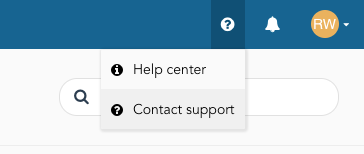
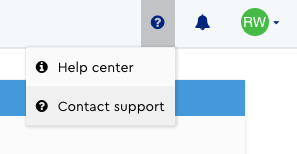
Redo screenshots for Cox.

diff --git a/en/administration/rbac.md b/en/administration/rbac.md
@@ -93,7 +93,7 @@ Environment roles are assigned to a user when adding members to an environment:
 1. Select *Manage members*.
 1. In the following page, enter the name of the user to add in the text box labeled *Add member to environment*.
 
-![edit environment members page](/assets/rbac-list_of_env_roles-en.png)
+<!-- Commented out until plugin is rebranded ![edit environment members page](/assets/rbac-list_of_env_roles-en.png) -->
 
 ### See also
 
